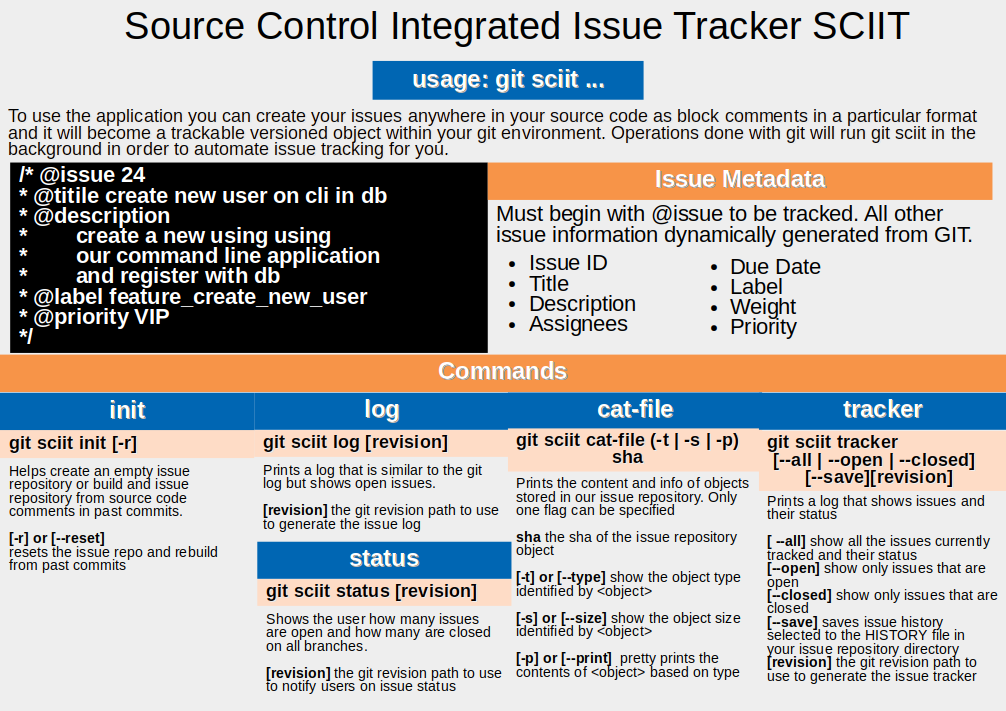
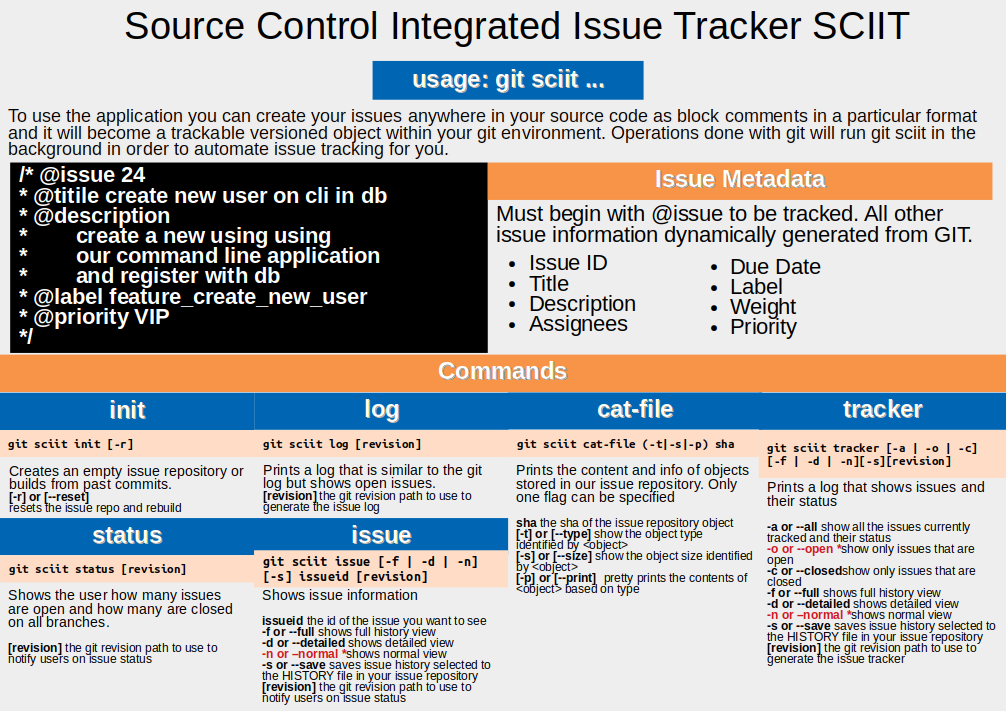
version 0.5 release candidate

Changed region(s): [[0.0, 0.5879, 1.0, 0.9902], [0.2465, 0.5879, 0.4622, 0.6498]]

diff --git a/sciit/cli/start.py b/sciit/cli/start.py
@@ -155,7 +155,7 @@ def main():
                            action='store_true')
         issue_parser.add_argument('issueid', action='store', type=str,
                                   help='The id of the issue that you are looking for')
-        issue_parser.add_argument('--save', action='store_true',
+        issue_parser.add_argument('-s', '--save', action='store_true',
                                   help='saves issue history selected to the HISTORY file in '
                                   'your issue repository directory')
         issue_parser.add_argument('revision', action='store', type=str, nargs='?',

diff --git a/docs/conf.py b/docs/conf.py
@@ -17,7 +17,6 @@
 #
 import os
 import sys
-from sciit.cli.functions import read_man_file
 sys.path.insert(0, os.path.abspath('..'))
 
 # -- General configuration ------------------------------------------------
@@ -62,7 +61,8 @@ author = u'Nystrom Johann Edwards'
 # built documents.
 #
 # The short X.Y version.
-VERSION = read_man_file('VERSION')
+with open('../sciit/man/VERSION', 'r') as v:
+    VERSION = v.read()
 version = f'version {VERSION}'
 # The full version, including alpha/beta/rc tags.
 release = f'version {VERSION}'

diff --git a/sciit/commit.py b/sciit/commit.py
@@ -90,9 +90,9 @@ def find_issues_in_commit(repo, commit, pattern=None):
     # changes made to them from all available parents
     for parent in commit.parents:
         icommit = IssueCommit(repo, parent.hexsha)
-        blah = [x for x in icommit.issuetree.issues
-                if x.filepath not in files_changed]
-        issues.extend(blah)
+        old_issues = [x for x in icommit.issuetree.issues
+                      if x.filepath not in files_changed]
+        issues.extend(old_issues)
 
     return issues
 
